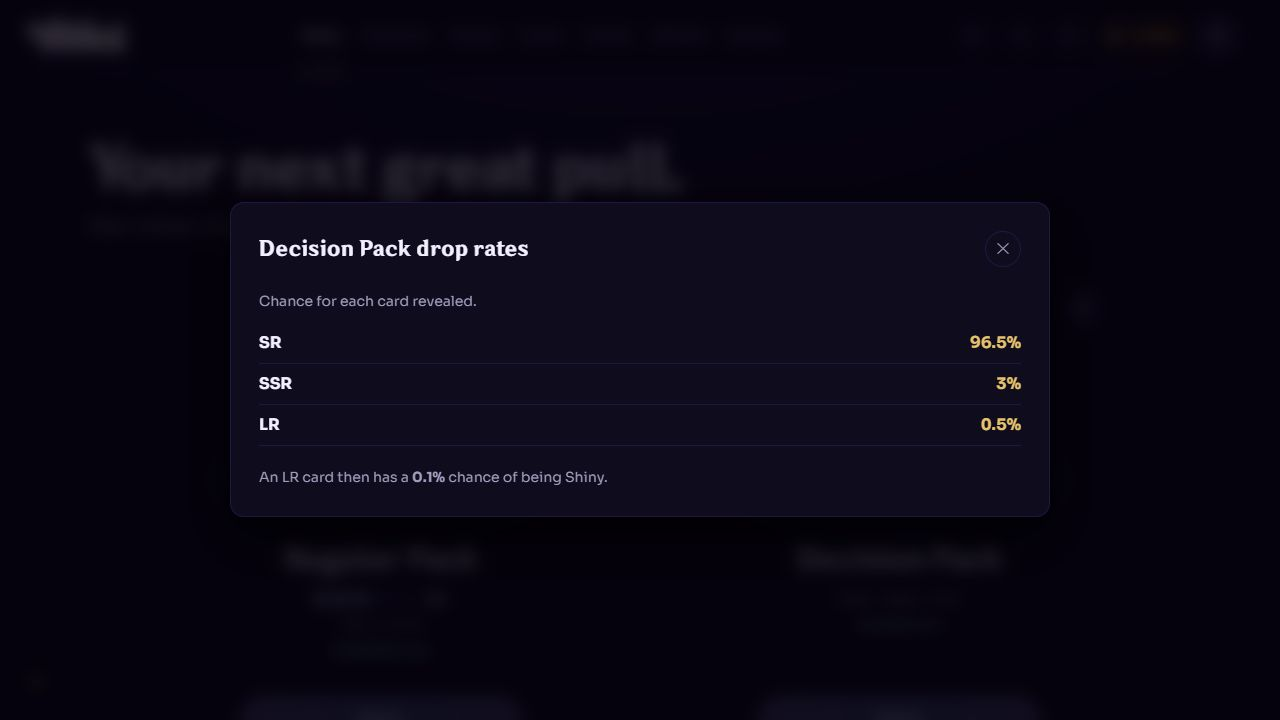
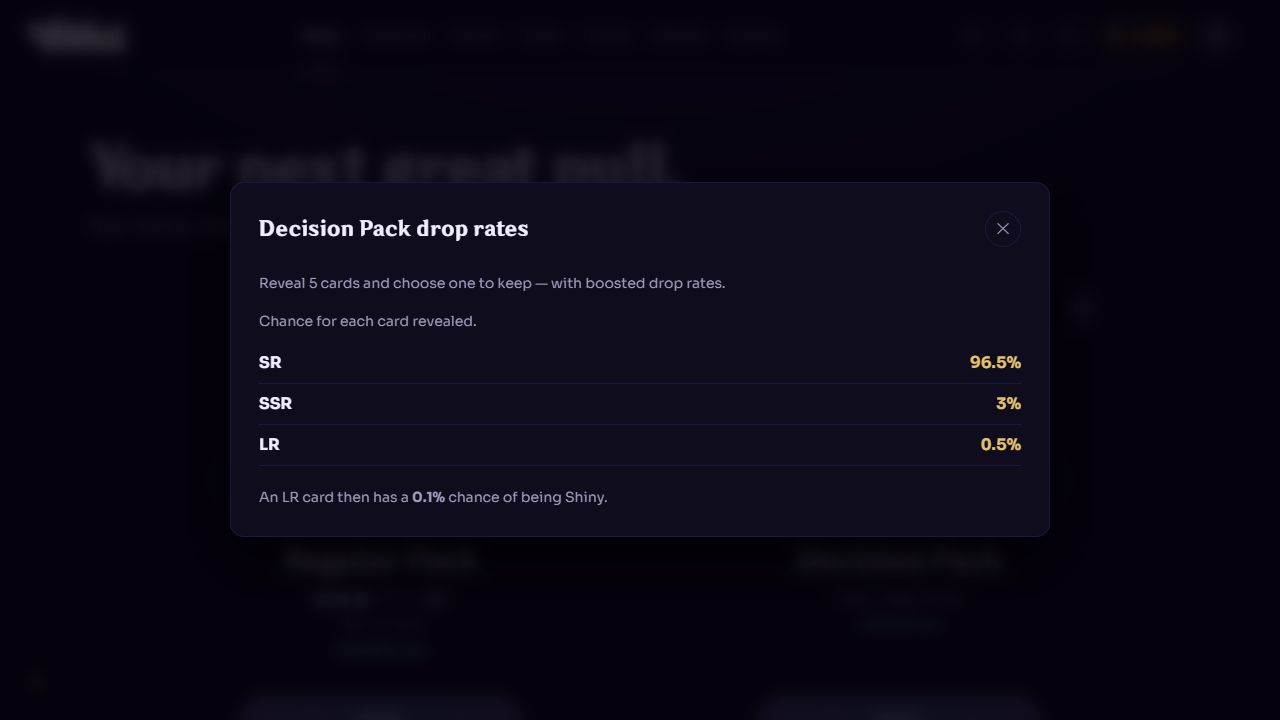
fix(packs): remove duplicate empty timer and explain pack types

diff --git a/components/boosters.tsx b/components/boosters.tsx
@@ -394,7 +394,7 @@ export function Boosters({ statusError, decisionError, onRetryRegular, onRetryDe
         <img src="/assets/bubble-regular-booster-v1.png" alt="Yokkai Collec’ Regular Pack" width={220} height={330} className="yk-pack-image" /></div><div className="yk-pack-body"><h2 className="font-display text-[26px] font-semibold">Regular Pack</h2>
         <div className="yk-pack-status">
           {status ? <div className="yk-pack-reserve" role="img" aria-label={`${status.available} of ${status.maximum} packs in reserve`}><span className="yk-pack-dots" aria-hidden="true">{Array.from({length: status.maximum}, (_, index) => <span key={index} data-filled={index < status.available} />)}</span><span aria-hidden="true">{status.available}/{status.maximum}</span></div> : <p>{statusError ? "Unavailable" : "Loading reserve…"}</p>}
-          <p className={`yk-pack-timing ${status?.available === 0 ? "text-warning" : ""}`}>{status ? status.nextPackAt === null ? "Reserve full" : `Next in ${countdown}` : "5 cards per pack"}</p>
+          {status?.available !== 0 && <p className="yk-pack-timing">{status ? status.nextPackAt === null ? "Reserve full" : `Next in ${countdown}` : "5 cards per pack"}</p>}
           {status && status.available > 0 && <p className="text-success">Available now</p>}
         </div>
         {statusError && <p role="alert" className="my-3 text-sm text-danger-ink">{statusError} <button className="yk-button yk-button-secondary" onClick={onRetryRegular}>Try again</button></p>}
@@ -406,6 +406,6 @@ export function Boosters({ statusError, decisionError, onRetryRegular, onRetryDe
         {decisionError && <p role="alert" className="my-3 text-sm text-danger-ink">{decisionError} <button className="yk-button yk-button-secondary" onClick={onRetryDecision}>Try again</button></p>}
         <Button disabled={!decisionStatus || (!decisionStatus.available && decisionStatus.pending.length === 0) || busy} onClick={event => start("decision", event.currentTarget)} className="w-full">{decisionStatus?.pending.length ? "Resume my choice" : decisionStatus?.available ? "Open" : `Available in ${decisionCountdown}`}</Button></div></article>
     </div>}
-    <Modal open={ratesKind!==null} onClose={()=>setRatesKind(null)} title={`${ratesKind === "decision" ? "Decision Pack" : "Regular Pack"} drop rates`}><p className="text-sm text-ink-2">Chance for each card revealed.</p><dl className="yk-drop-rates">{shownRates.map(rate=><div key={rate.rarity}><dt>{rate.rarity}</dt><dd>{rate.percent.toLocaleString("en-US",{maximumFractionDigits:2})}%</dd></div>)}</dl><p className="yk-drop-shiny">An LR card then has a <strong>{shinyRate.toLocaleString("en-US",{maximumFractionDigits:2})}%</strong>  chance of being Shiny.</p></Modal>
+    <Modal open={ratesKind!==null} onClose={()=>setRatesKind(null)} title={`${ratesKind === "decision" ? "Decision Pack" : "Regular Pack"} drop rates`}><p className="text-sm leading-6 text-ink-2">{ratesKind === "decision" ? "Reveal 5 cards and choose one to keep — with boosted drop rates." : "Open a Regular Pack and add all 5 cards to your collection."}</p><p className="mt-4 text-sm text-ink-2">Chance for each card revealed.</p><dl className="yk-drop-rates">{shownRates.map(rate=><div key={rate.rarity}><dt>{rate.rarity}</dt><dd>{rate.percent.toLocaleString("en-US",{maximumFractionDigits:2})}%</dd></div>)}</dl><p className="yk-drop-shiny">An LR card then has a <strong>{shinyRate.toLocaleString("en-US",{maximumFractionDigits:2})}%</strong>  chance of being Shiny.</p></Modal>
   </>;
 }
